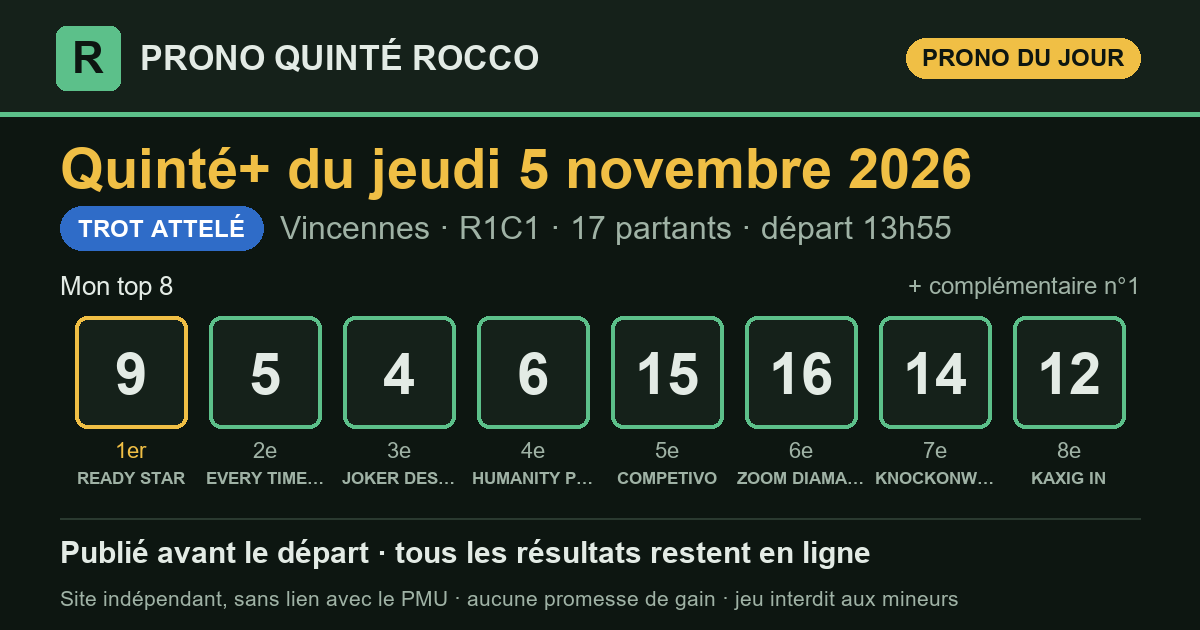
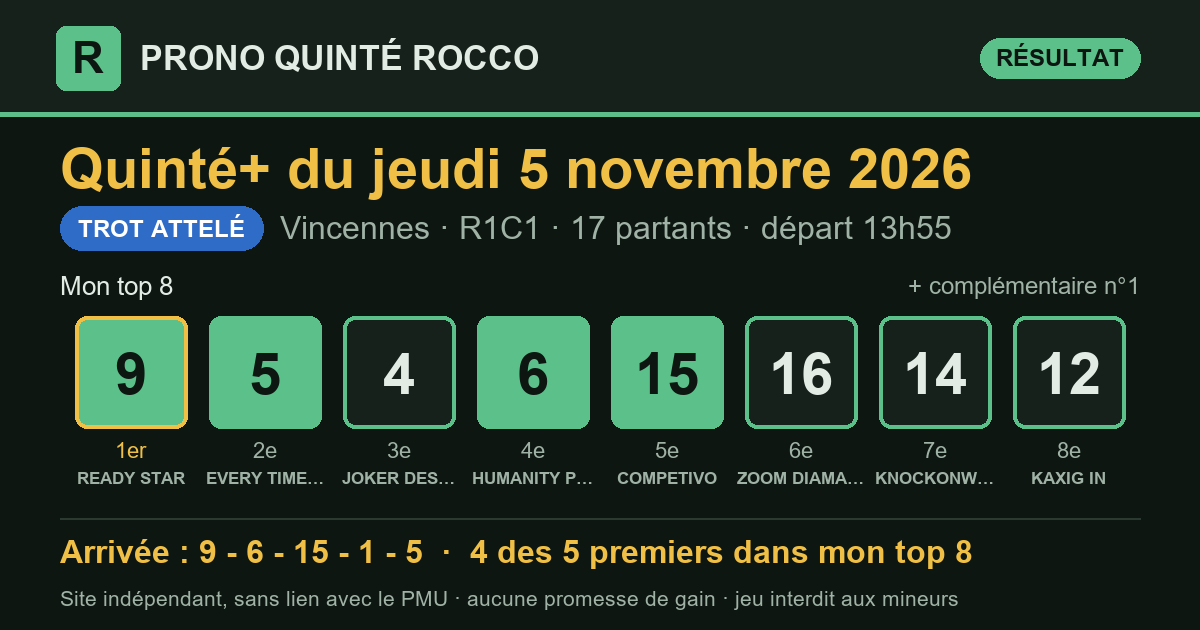
Prono Quinté+ 2026-11-05 Vincennes R1C1 — publié le 05/11/2026 14:09 (heure de Paris)

diff --git a/index.html b/index.html
@@ -16,7 +16,7 @@
 <meta property="og:title" content="Pronostic Quinté+ du jeudi 5 novembre 2026 — Prono Quinté Rocco">
 <meta property="og:description" content="Pronostic Quinté+ du jour : mon top 8, publié avant le départ, puis tous les résultats et le rendement réel.">
 <meta property="og:url" content="https://prono-quinte-rocco.fr/">
-<meta property="og:image" content="https://prono-quinte-rocco.fr/partage/2026-11-05.png?v=2f087bac">
+<meta property="og:image" content="https://prono-quinte-rocco.fr/partage/2026-11-05.png?v=ef31a8d8">
 <meta property="og:image:type" content="image/png">
 <meta property="og:image:width" content="1200">
 <meta property="og:image:height" content="630">
@@ -31,7 +31,7 @@
 </header>
 <main>
 <section class="une" aria-labelledby="t-jour">
-  <p class="surtitre">Quinté+ du jour</p>
+  <p class="surtitre">Dernier Quinté+</p>
   <h1 id="t-jour">Le prono du Quinté+, résultats compris</h1>
   <p class="chapo">Chaque matin, j'étudie les partants du Quinté+ avec le logiciel que
   j'ai conçu, selon ma propre méthode, qu'une intelligence artificielle m'aide à
@@ -42,10 +42,13 @@
   <p class="meta">Vincennes · <strong>R1C1</strong> · 17 partants · lisibilité <span class="note" aria-label="note 3 sur 5"><i class="on"></i><i class="on"></i><i class="on"></i><i class=""></i><i class=""></i></span> 3/5</p>
   <div class="zone-prono">
     <h3 class="zone-titre">Mon top 8</h3>
-    <ol class="partants" aria-label="Mon top 8"><li><span class="rang">1<sup>er</sup></span><span class="tapis ">9</span><span class="nom">READY STAR</span></li><li><span class="rang">2<sup>e</sup></span><span class="tapis ">5</span><span class="nom">EVERY TIME WINNER</span></li><li><span class="rang">3<sup>e</sup></span><span class="tapis ">4</span><span class="nom">JOKER DES CHALIERS</span></li><li><span class="rang">4<sup>e</sup></span><span class="tapis ">6</span><span class="nom">HUMANITY PELLINI</span></li><li><span class="rang">5<sup>e</sup></span><span class="tapis ">15</span><span class="nom">COMPETIVO</span></li><li><span class="rang">6<sup>e</sup></span><span class="tapis ">16</span><span class="nom">ZOOM DIAMANT</span></li><li><span class="rang">7<sup>e</sup></span><span class="tapis ">14</span><span class="nom">KNOCKONWOOD</span></li><li><span class="rang">8<sup>e</sup></span><span class="tapis ">12</span><span class="nom">KAXIG IN</span></li><li><span class="rang">compl.</span><span class="tapis creux">1</span><span class="nom">KOTKIE</span></li></ol>
+    <ol class="partants" aria-label="Mon top 8"><li><span class="rang">1<sup>er</sup></span><span class="tapis plein">9</span><span class="nom">READY STAR</span></li><li><span class="rang">2<sup>e</sup></span><span class="tapis plein">5</span><span class="nom">EVERY TIME WINNER</span></li><li><span class="rang">3<sup>e</sup></span><span class="tapis ">4</span><span class="nom">JOKER DES CHALIERS</span></li><li><span class="rang">4<sup>e</sup></span><span class="tapis plein">6</span><span class="nom">HUMANITY PELLINI</span></li><li><span class="rang">5<sup>e</sup></span><span class="tapis plein">15</span><span class="nom">COMPETIVO</span></li><li><span class="rang">6<sup>e</sup></span><span class="tapis ">16</span><span class="nom">ZOOM DIAMANT</span></li><li><span class="rang">7<sup>e</sup></span><span class="tapis ">14</span><span class="nom">KNOCKONWOOD</span></li><li><span class="rang">8<sup>e</sup></span><span class="tapis ">12</span><span class="nom">KAXIG IN</span></li><li><span class="rang">compl.</span><span class="tapis creux plein">1</span><span class="nom">KOTKIE</span></li></ol>
     <div class="pied-carte"><span>Analysé le 05/11 à 09:55 · en ligne le 05/11 à 10:04 · départ à 13:55 (heure de Paris)</span><span><a href="quinte/2026-11-05.html">Détail de la course</a></span></div>
   </div>
-  <div class="zone-arrivee attente"><p>L'arrivée officielle s'affichera ici après la course.</p></div>
+  <div class="zone-arrivee">
+    <div class="zone-tete"><h3 class="zone-titre">Arrivée officielle</h3><span class="etat place">4 des 5 premiers dans mon top 8</span><span class="etat gagne">mon 1er (n°9) : gagnant</span></div>
+    <ol class="partants" aria-label="Arrivée officielle"><li><span class="rang">1<sup>er</sup></span><span class="tapis plein">9</span><span class="nom">READY STAR</span></li><li><span class="rang">2<sup>e</sup></span><span class="tapis plein">6</span><span class="nom">HUMANITY PELLINI</span></li><li><span class="rang">3<sup>e</sup></span><span class="tapis plein">15</span><span class="nom">COMPETIVO</span></li><li><span class="rang">4<sup>e</sup></span><span class="tapis creux plein">1</span><span class="nom">KOTKIE</span></li><li><span class="rang">5<sup>e</sup></span><span class="tapis plein">5</span><span class="nom">EVERY TIME WINNER</span></li></ol>
+  </div>
 </article>
 </section>
 <section class="suivre" aria-label="Suivre et soutenir">
@@ -75,7 +78,7 @@
 </section>
 <section class="bilan" aria-labelledby="t-bilan">
   <h2 id="t-bilan">Mon bilan depuis le 8 septembre 2026</h2>
-  <div class="tableau chiffres"><div class="case"><span class="gros ">73 %</span><span class="lib">des arrivants trouvés dans mon top 8</span><span class="ref">un top 8 tiré au hasard : 51 %</span></div><div class="case"><span class="gros ">88 %</span><span class="lib">des gagnants présents dans mon top 8</span><span class="ref"></span></div><div class="case"><span class="gros ">46 %</span><span class="lib">mon 1er placé</span><span class="ref">sur 57 Quintés</span></div><div class="case"><span class="gros perte">0,85 €</span><span class="lib">rendus pour 1 € joué placé sur mon 1er</span><span class="ref">rapports officiels PMU</span></div><div class="case"><span class="gros perte">0,46 €</span><span class="lib">rendus pour 1 € joué en Quinté+ combiné sur mon top 8</span><span class="ref">56 combinaisons, rapports PMU.fr, sur 57 Quintés</span></div></div>
+  <div class="tableau chiffres"><div class="case"><span class="gros ">73 %</span><span class="lib">des arrivants trouvés dans mon top 8</span><span class="ref">un top 8 tiré au hasard : 51 %</span></div><div class="case"><span class="gros ">88 %</span><span class="lib">des gagnants présents dans mon top 8</span><span class="ref"></span></div><div class="case"><span class="gros ">46 %</span><span class="lib">mon 1er placé</span><span class="ref">sur 57 Quintés</span></div><div class="case"><span class="gros perte">0,85 €</span><span class="lib">rendus pour 1 € joué placé sur mon 1er</span><span class="ref">rapports officiels PMU</span></div><div class="case"><span class="gros perte">0,46 €</span><span class="lib">rendus pour 1 € joué en Quinté+ combiné sur mon top 8</span><span class="ref">56 combinaisons, rapports PMU.fr, sur 58 Quintés</span></div></div>
   <p class="avertissement">Moins de 1 € rendu pour 1 € joué : suivre mon prono à la lettre fait <strong>perdre de l'argent</strong> sur cette période. Il sert à analyser une course, pas à promettre un gain.</p>
 </section>
 </main>

diff --git a/quinte/2026-11-05.html b/quinte/2026-11-05.html
@@ -16,7 +16,7 @@
 <meta property="og:title" content="Pronostic Quinté+ du jeudi 5 novembre 2026 à Vincennes — Prono Quinté Rocco">
 <meta property="og:description" content="Prono Quinté+ du jeudi 5 novembre 2026 (Vincennes) : mon top 8, l&#x27;arrivée officielle et les rapports PMU.fr.">
 <meta property="og:url" content="https://prono-quinte-rocco.fr/quinte/2026-11-05.html">
-<meta property="og:image" content="https://prono-quinte-rocco.fr/partage/2026-11-05.png?v=2f087bac">
+<meta property="og:image" content="https://prono-quinte-rocco.fr/partage/2026-11-05.png?v=ef31a8d8">
 <meta property="og:image:type" content="image/png">
 <meta property="og:image:width" content="1200">
 <meta property="og:image:height" content="630">
@@ -35,15 +35,25 @@
   <h1>Pronostic Quinté+ du jeudi 5 novembre 2026</h1>
   <p class="chapo">Vincennes · R1C1 · Attelé · 17 partants</p>
   <article class="carte-course">
-  <div class="tete"><h2>Mon prono</h2><span class="type t-attele">Trot attelé</span></div>
+  <div class="tete"><h2>Mon prono et l&#x27;arrivée officielle</h2><span class="type t-attele">Trot attelé</span></div>
   <p class="meta">Vincennes · <strong>R1C1</strong> · 17 partants · lisibilité <span class="note" aria-label="note 3 sur 5"><i class="on"></i><i class="on"></i><i class="on"></i><i class=""></i><i class=""></i></span> 3/5</p>
   <div class="zone-prono">
     <h3 class="zone-titre">Mon top 8</h3>
-    <ol class="partants" aria-label="Mon top 8"><li><span class="rang">1<sup>er</sup></span><span class="tapis ">9</span><span class="nom">READY STAR</span></li><li><span class="rang">2<sup>e</sup></span><span class="tapis ">5</span><span class="nom">EVERY TIME WINNER</span></li><li><span class="rang">3<sup>e</sup></span><span class="tapis ">4</span><span class="nom">JOKER DES CHALIERS</span></li><li><span class="rang">4<sup>e</sup></span><span class="tapis ">6</span><span class="nom">HUMANITY PELLINI</span></li><li><span class="rang">5<sup>e</sup></span><span class="tapis ">15</span><span class="nom">COMPETIVO</span></li><li><span class="rang">6<sup>e</sup></span><span class="tapis ">16</span><span class="nom">ZOOM DIAMANT</span></li><li><span class="rang">7<sup>e</sup></span><span class="tapis ">14</span><span class="nom">KNOCKONWOOD</span></li><li><span class="rang">8<sup>e</sup></span><span class="tapis ">12</span><span class="nom">KAXIG IN</span></li><li><span class="rang">compl.</span><span class="tapis creux">1</span><span class="nom">KOTKIE</span></li></ol>
+    <ol class="partants" aria-label="Mon top 8"><li><span class="rang">1<sup>er</sup></span><span class="tapis plein">9</span><span class="nom">READY STAR</span></li><li><span class="rang">2<sup>e</sup></span><span class="tapis plein">5</span><span class="nom">EVERY TIME WINNER</span></li><li><span class="rang">3<sup>e</sup></span><span class="tapis ">4</span><span class="nom">JOKER DES CHALIERS</span></li><li><span class="rang">4<sup>e</sup></span><span class="tapis plein">6</span><span class="nom">HUMANITY PELLINI</span></li><li><span class="rang">5<sup>e</sup></span><span class="tapis plein">15</span><span class="nom">COMPETIVO</span></li><li><span class="rang">6<sup>e</sup></span><span class="tapis ">16</span><span class="nom">ZOOM DIAMANT</span></li><li><span class="rang">7<sup>e</sup></span><span class="tapis ">14</span><span class="nom">KNOCKONWOOD</span></li><li><span class="rang">8<sup>e</sup></span><span class="tapis ">12</span><span class="nom">KAXIG IN</span></li><li><span class="rang">compl.</span><span class="tapis creux plein">1</span><span class="nom">KOTKIE</span></li></ol>
     <div class="pied-carte"><span>Analysé le 05/11 à 09:55 · en ligne le 05/11 à 10:04 · départ à 13:55 (heure de Paris)</span><span></span></div>
   </div>
-  <div class="zone-arrivee attente"><p>L'arrivée officielle s'affichera ici après la course.</p></div>
+  <div class="zone-arrivee">
+    <div class="zone-tete"><h3 class="zone-titre">Arrivée officielle</h3><span class="etat place">4 des 5 premiers dans mon top 8</span><span class="etat gagne">mon 1er (n°9) : gagnant</span></div>
+    <ol class="partants" aria-label="Arrivée officielle"><li><span class="rang">1<sup>er</sup></span><span class="tapis plein">9</span><span class="nom">READY STAR</span></li><li><span class="rang">2<sup>e</sup></span><span class="tapis plein">6</span><span class="nom">HUMANITY PELLINI</span></li><li><span class="rang">3<sup>e</sup></span><span class="tapis plein">15</span><span class="nom">COMPETIVO</span></li><li><span class="rang">4<sup>e</sup></span><span class="tapis creux plein">1</span><span class="nom">KOTKIE</span></li><li><span class="rang">5<sup>e</sup></span><span class="tapis plein">5</span><span class="nom">EVERY TIME WINNER</span></li></ol>
+  </div>
 </article>
+<section class="carte-course rapports" aria-labelledby="t-rap">
+  <div class="tete"><h2 id="t-rap">Les rapports</h2></div>
+  <div class="deux">
+    <div><h3>Ce qu'aurait rendu mon prono</h3><dl class="kv"><dt>1 € placé sur mon 1er (n°9)</dt><dd>rapport manquant</dd><dt>1 € gagnant sur mon 1er</dt><dd>rapport manquant</dd><dt>Quinté+ combiné sur mon top 8 (mise 112 €)</dt><dd>33,60 €</dd><dt>dont</dt><dd>Bonus 4sur5 × 4, Bonus 3 × 6</dd></dl></div>
+    <div><h3>Rapports officiels</h3><dl class="kv"><dt>e-Quinté+ Ordre (2 €)</dt><dd>12 386,20 €</dd><dt>e-Quinté+ Désordre (2 €)</dt><dd>103,20 €</dd><dt>e-Bonus 4sur5 (2 €)</dt><dd>3,60 €</dd><dt>e-Bonus 3 (2 €)</dt><dd>3,20 €</dd></dl></div>
+  </div>
+</section>
 </section>
 </main>
 <footer class="pied">

diff --git a/partants.html b/partants.html
@@ -35,19 +35,19 @@
     <p class="fiche-depart">Départ <b>13:55</b> <span>heure de Paris</span></p>
   </div>
   <p class="surtitre">Les pronostics ailleurs sur le web</p>
-  <div class="liens"><a class="lien-ext" href="https://www.turfoo.fr/programmes-courses/261105/reunion1-vincennes/course1-prix-d-avranches/pronostics-presse/" rel="noopener" target="_blank"><b>Les pronostics de la presse →</b><span>sur Turfoo (site extérieur)</span></a><a class="lien-ext" href="https://www.geny.com/programme/2026-11-05" rel="noopener" target="_blank"><b>Partants et pronostics →</b><span>programme du jour sur Geny (site extérieur)</span></a></div>
+  <div class="liens"><a class="lien-ext" href="https://www.turfoo.fr/programmes-courses/261105/" rel="noopener" target="_blank"><b>Les pronostics de la presse →</b><span>sur Turfoo (site extérieur)</span></a><a class="lien-ext" href="https://www.geny.com/programme/2026-11-05" rel="noopener" target="_blank"><b>Partants et pronostics →</b><span>programme du jour sur Geny (site extérieur)</span></a></div>
   <div class="liste-boite"><table class="liste-partants">
     <thead><tr><th>N°</th><th>Cheval</th><th class="cote"><span class="long">Cote du matin</span><span class="court">Cote</span></th>
     <th class="ia"><span class="long">Mon prono</span><span class="court">Prono</span></th></tr></thead>
     <tbody><tr>
   <td><span class="tapis petit">1</span></td>
   <td><span class="cheval">KOTKIE</span><span class="sous">P.PH. PLOQUIN · J.R. DELLIAUX</span></td>
-  <td class="cote num">32,0</td>
+  <td class="cote num">31,0</td>
   <td class="ia"><span class="etat place">compl.</span></td>
 </tr><tr>
   <td><span class="tapis petit">2</span></td>
   <td><span class="cheval">ISIS D&#x27;HERFRAIE</span><span class="sous">D. THOMAIN · CL. THOMAIN</span></td>
-  <td class="cote num">85,0</td>
+  <td class="cote num">96,0</td>
   <td class="ia">—</td>
 </tr><tr>
   <td><span class="tapis petit">3</span></td>
@@ -57,12 +57,12 @@
 </tr><tr>
   <td><span class="tapis petit">4</span></td>
   <td><span class="cheval">JOKER DES CHALIERS</span><span class="sous">G. GELORMINI · A. CHAVATTE</span></td>
-  <td class="cote num">5,5</td>
+  <td class="cote num">4,5</td>
   <td class="ia"><span class="etat place">3<sup>e</sup></span></td>
 </tr><tr>
   <td><span class="tapis petit">5</span></td>
   <td><span class="cheval">EVERY TIME WINNER</span><span class="sous">E. RAFFIN · H.E. BONDO</span></td>
-  <td class="cote num">4,8</td>
+  <td class="cote num">5,2</td>
   <td class="ia"><span class="etat place">2<sup>e</sup></span></td>
 </tr><tr>
   <td><span class="tapis petit">6</span></td>
@@ -72,22 +72,22 @@
 </tr><tr>
   <td><span class="tapis petit">7</span></td>
   <td><span class="cheval">JUSSEO</span><span class="sous">JULIEN RAFFESTIN · Julien RAFFESTIN</span></td>
-  <td class="cote num">51,0</td>
+  <td class="cote num">65,0</td>
   <td class="ia">—</td>
 </tr><tr>
   <td><span class="tapis petit">8</span></td>
   <td><span class="cheval">HINDEN</span><span class="sous">A. BARRIER · P.J. CORDEAU</span></td>
-  <td class="cote num">31,0</td>
+  <td class="cote num">40,0</td>
   <td class="ia">—</td>
 </tr><tr>
   <td><span class="tapis petit">9</span></td>
   <td><span class="cheval">READY STAR</span><span class="sous">MATS DJUSE · J. WESTHOLM</span></td>
-  <td class="cote num">4,3</td>
+  <td class="cote num">3,9</td>
   <td class="ia"><span class="etat place">1<sup>er</sup></span></td>
 </tr><tr>
   <td><span class="tapis petit">10</span></td>
   <td><span class="cheval">DIE HARD (ITY)</span><span class="sous">THEO DUVALDESTIN · P.L. DESAUNETTE</span></td>
-  <td class="cote num">67,0</td>
+  <td class="cote num">73,0</td>
   <td class="ia">—</td>
 </tr><tr>
   <td><span class="tapis petit">11</span></td>
@@ -97,7 +97,7 @@
 </tr><tr>
   <td><span class="tapis petit">12</span></td>
   <td><span class="cheval">KAXIG IN</span><span class="sous">A. COLLETTE · David PERSSON</span></td>
-  <td class="cote num">13,0</td>
+  <td class="cote num">16,0</td>
   <td class="ia"><span class="etat place">8<sup>e</sup></span></td>
 </tr><tr class="np">
   <td><span class="tapis petit">13</span></td>
@@ -112,7 +112,7 @@
 </tr><tr>
   <td><span class="tapis petit">15</span></td>
   <td><span class="cheval">COMPETIVO</span><span class="sous">B. ROCHARD · Daniel WAJERSTEN</span></td>
-  <td class="cote num">11,0</td>
+  <td class="cote num">12,0</td>
   <td class="ia"><span class="etat place">5<sup>e</sup></span></td>
 </tr><tr>
   <td><span class="tapis petit">16</span></td>
@@ -122,17 +122,17 @@
 </tr><tr>
   <td><span class="tapis petit">17</span></td>
   <td><span class="cheval">NIAGARA RIVER</span><span class="sous">D. BROUWER · D. BROUWER</span></td>
-  <td class="cote num">59,0</td>
+  <td class="cote num">62,0</td>
   <td class="ia">—</td>
 </tr><tr>
   <td><span class="tapis petit">18</span></td>
   <td><span class="cheval">JUNKIE (SWE)</span><span class="sous">CL. FRECELLE · P. LEVESQUE</span></td>
-  <td class="cote num">139,0</td>
+  <td class="cote num">135,0</td>
   <td class="ia">—</td>
 </tr></tbody>
   </table></div>
   <p class="meta">La colonne « Mon prono » donne le rang de chaque cheval dans mon top 8, tel qu&#x27;il est publié sur ce site. Sous chaque cheval : driver · entraîneur. Partants et cotes : programme
-  officiel du PMU, lu le 05/11 à 10:04 (heure de Paris). NP = non-partant.</p>
+  officiel du PMU, lu le 05/11 à 14:09 (heure de Paris). NP = non-partant.</p>
 </section>
 </main>
 <footer class="pied">

diff --git a/resultats.html b/resultats.html
@@ -40,11 +40,11 @@
     <th colspan="4" class="res g-res">Le résultat officiel</th></tr>
     <tr><th>Date</th><th>Course</th><th>Top 8</th><th class="res c-arr">Arrivée</th>
     <th class="res">Trouvés</th><th class="res">Mon 1er</th><th class="res mont">Quinté+ top 8<br>(mise 112 €)</th></tr></thead>
-    <tbody><tr class="attente">
+    <tbody><tr>
   <td class="c-date"><a href="quinte/2026-11-05.html">05/11</a></td>
   <td class="c-course">Vincennes<br><span class="meta">R1C1</span><span class="type t-attele petit">Attelé</span></td>
-  <td class="c-top8" data-label="Mon top 8"><div class="rangee"><span class="tapis petit">9</span><span class="tapis petit">5</span><span class="tapis petit">4</span><span class="tapis petit">6</span><span class="tapis petit">15</span><span class="tapis petit">16</span><span class="tapis petit">14</span><span class="tapis petit">12</span></div></td>
-  <td class="res c-arr" data-label="Arrivée"><span class="etat attente">en attente</span></td><td class="res num c-trouves" data-label="Trouvés">—</td><td class="res c-premier" data-label="Mon 1er"><span class="etat attente">—</span></td><td class="res mont c-mont" data-label="Quinté+ top 8 (mise 112 €)">—</td>
+  <td class="c-top8" data-label="Mon top 8"><div class="rangee"><span class="tapis plein petit">9</span><span class="tapis plein petit">5</span><span class="tapis petit">4</span><span class="tapis plein petit">6</span><span class="tapis plein petit">15</span><span class="tapis petit">16</span><span class="tapis petit">14</span><span class="tapis petit">12</span></div></td>
+  <td class="res c-arr" data-label="Arrivée"><div class="rangee"><span class="tapis plein petit" title="1er">9</span><span class="tapis plein petit" title="2e">6</span><span class="tapis plein petit" title="3e">15</span><span class="tapis hors petit" title="4e">1</span><span class="tapis plein petit" title="5e">5</span></div></td><td class="res num c-trouves" data-label="Trouvés">4/5</td><td class="res c-premier" data-label="Mon 1er"><span class="etat gagne">gagnant</span></td><td class="res mont c-mont perte" data-label="Quinté+ top 8 (mise 112 €)">33,60 €</td>
 </tr><tr>
   <td class="c-date"><a href="quinte/2026-11-04.html">04/11</a></td>
   <td class="c-course">Nantes<br><span class="meta">R1C2</span><span class="type t-attele petit">Attelé</span></td>
@@ -335,7 +335,7 @@
 </section>
 <section class="bilan" aria-labelledby="t-bilan">
   <h2 id="t-bilan">Mon bilan depuis le 8 septembre 2026</h2>
-  <div class="tableau chiffres"><div class="case"><span class="gros ">73 %</span><span class="lib">des arrivants trouvés dans mon top 8</span><span class="ref">un top 8 tiré au hasard : 51 %</span></div><div class="case"><span class="gros ">88 %</span><span class="lib">des gagnants présents dans mon top 8</span><span class="ref"></span></div><div class="case"><span class="gros ">46 %</span><span class="lib">mon 1er placé</span><span class="ref">sur 57 Quintés</span></div><div class="case"><span class="gros perte">0,85 €</span><span class="lib">rendus pour 1 € joué placé sur mon 1er</span><span class="ref">rapports officiels PMU</span></div><div class="case"><span class="gros perte">0,46 €</span><span class="lib">rendus pour 1 € joué en Quinté+ combiné sur mon top 8</span><span class="ref">56 combinaisons, rapports PMU.fr, sur 57 Quintés</span></div></div>
+  <div class="tableau chiffres"><div class="case"><span class="gros ">73 %</span><span class="lib">des arrivants trouvés dans mon top 8</span><span class="ref">un top 8 tiré au hasard : 51 %</span></div><div class="case"><span class="gros ">88 %</span><span class="lib">des gagnants présents dans mon top 8</span><span class="ref"></span></div><div class="case"><span class="gros ">46 %</span><span class="lib">mon 1er placé</span><span class="ref">sur 57 Quintés</span></div><div class="case"><span class="gros perte">0,85 €</span><span class="lib">rendus pour 1 € joué placé sur mon 1er</span><span class="ref">rapports officiels PMU</span></div><div class="case"><span class="gros perte">0,46 €</span><span class="lib">rendus pour 1 € joué en Quinté+ combiné sur mon top 8</span><span class="ref">56 combinaisons, rapports PMU.fr, sur 58 Quintés</span></div></div>
   <p class="avertissement">Moins de 1 € rendu pour 1 € joué : suivre mon prono à la lettre fait <strong>perdre de l'argent</strong> sur cette période. Il sert à analyser une course, pas à promettre un gain.</p>
 </section>
 </main>
